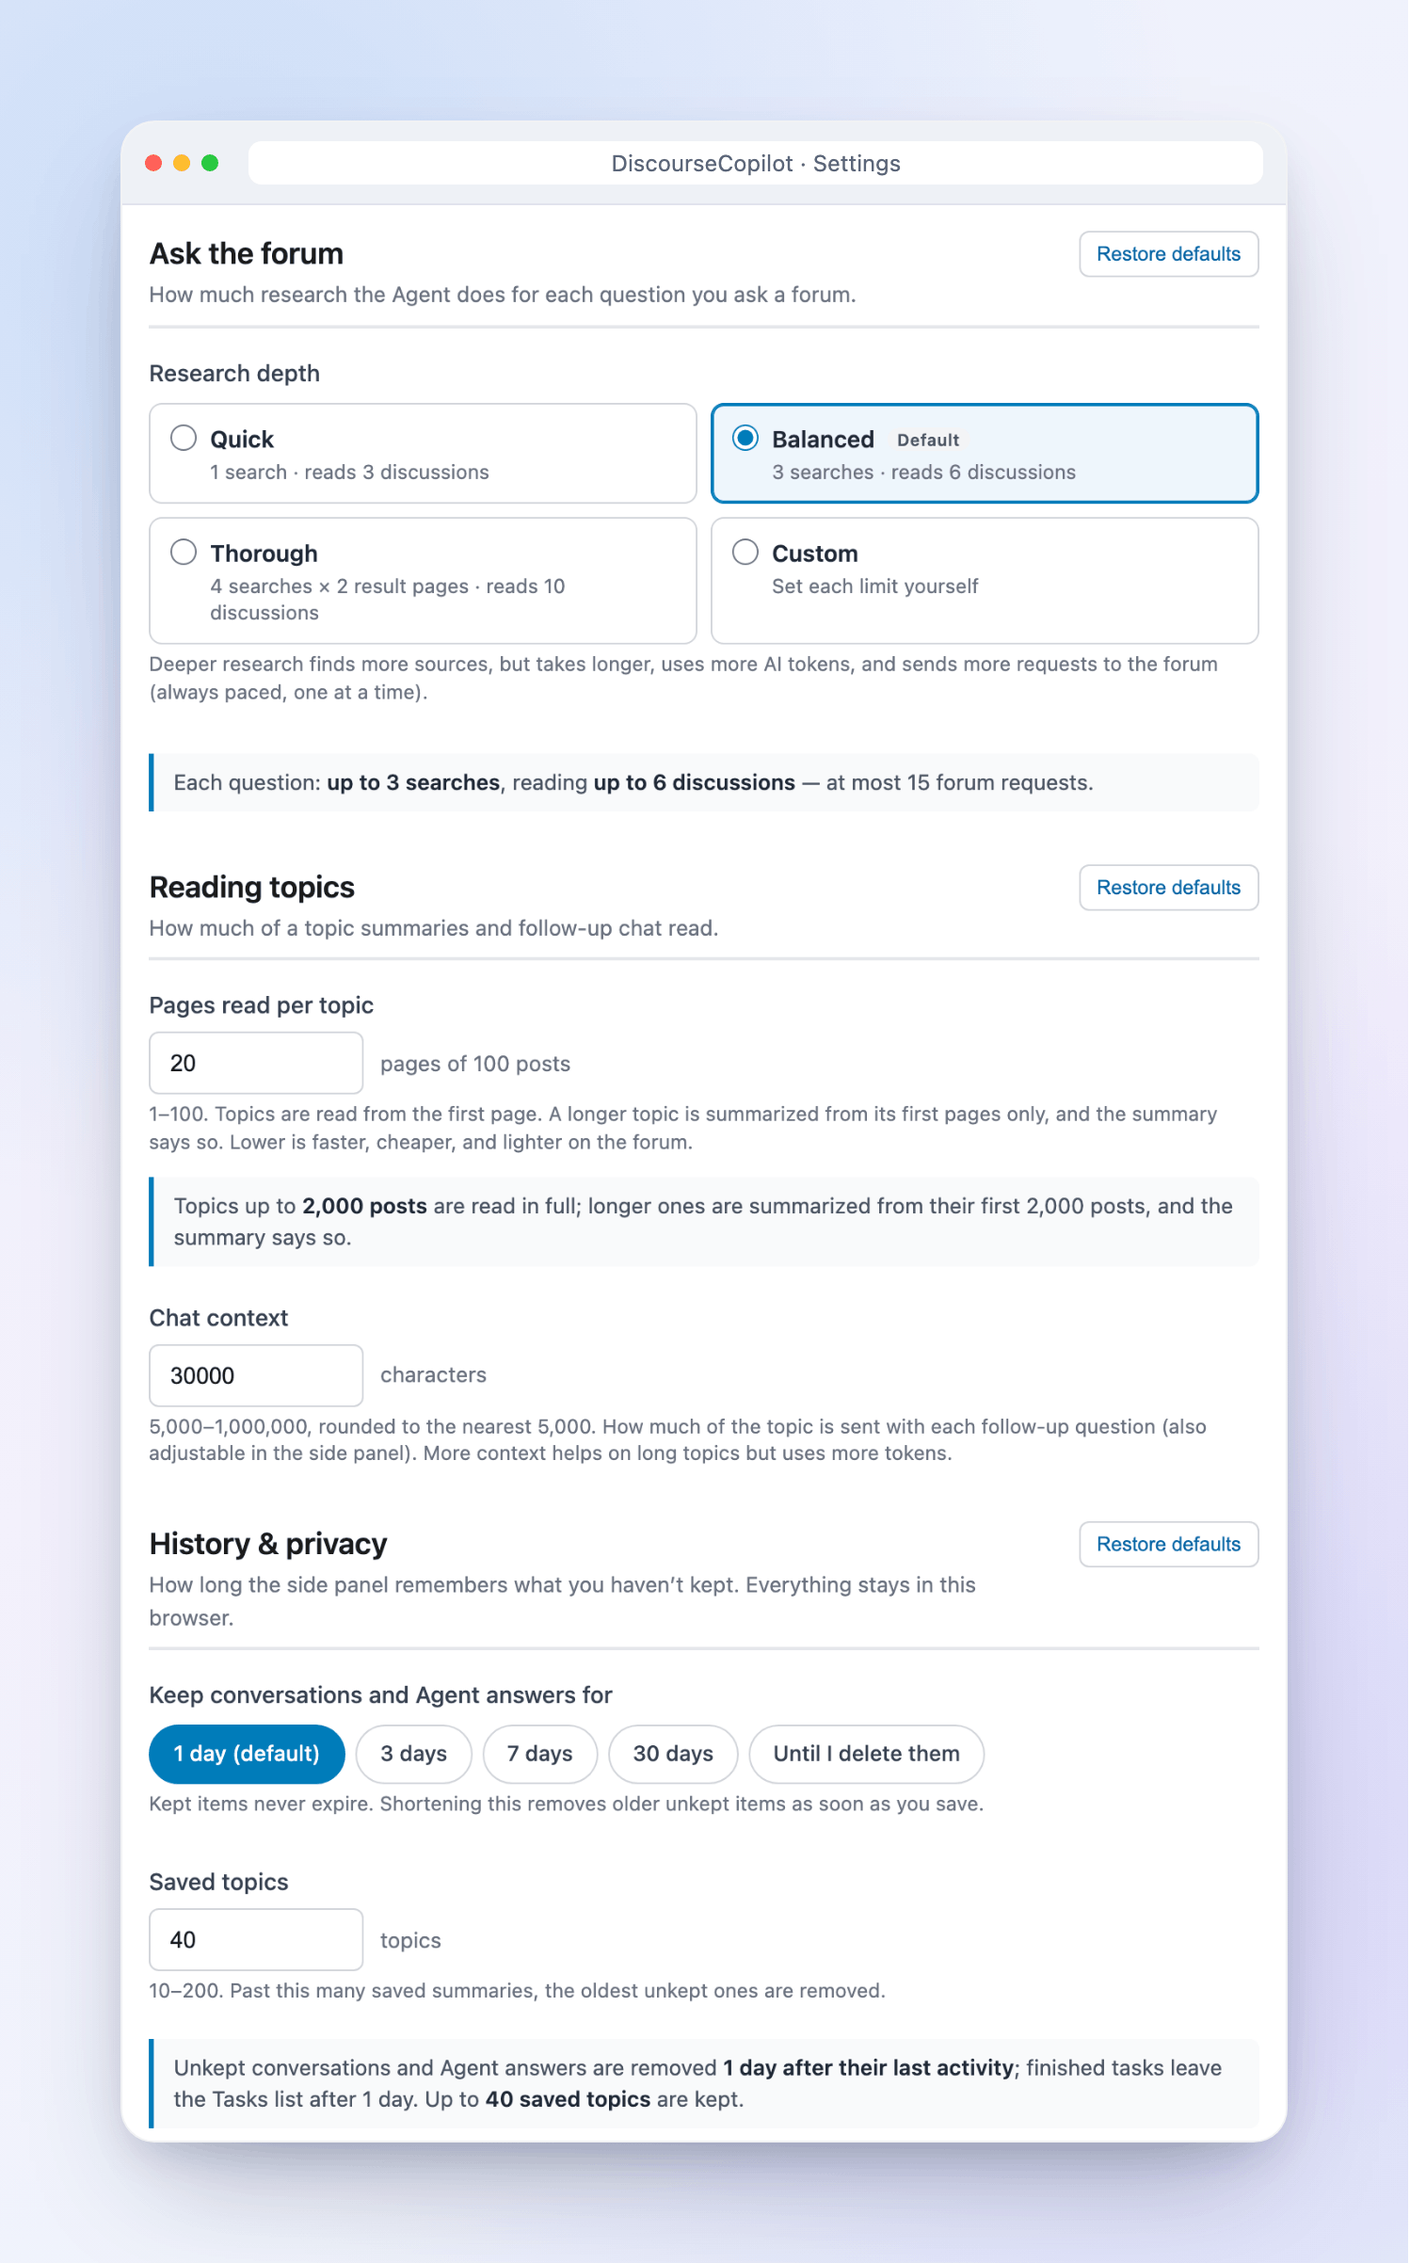
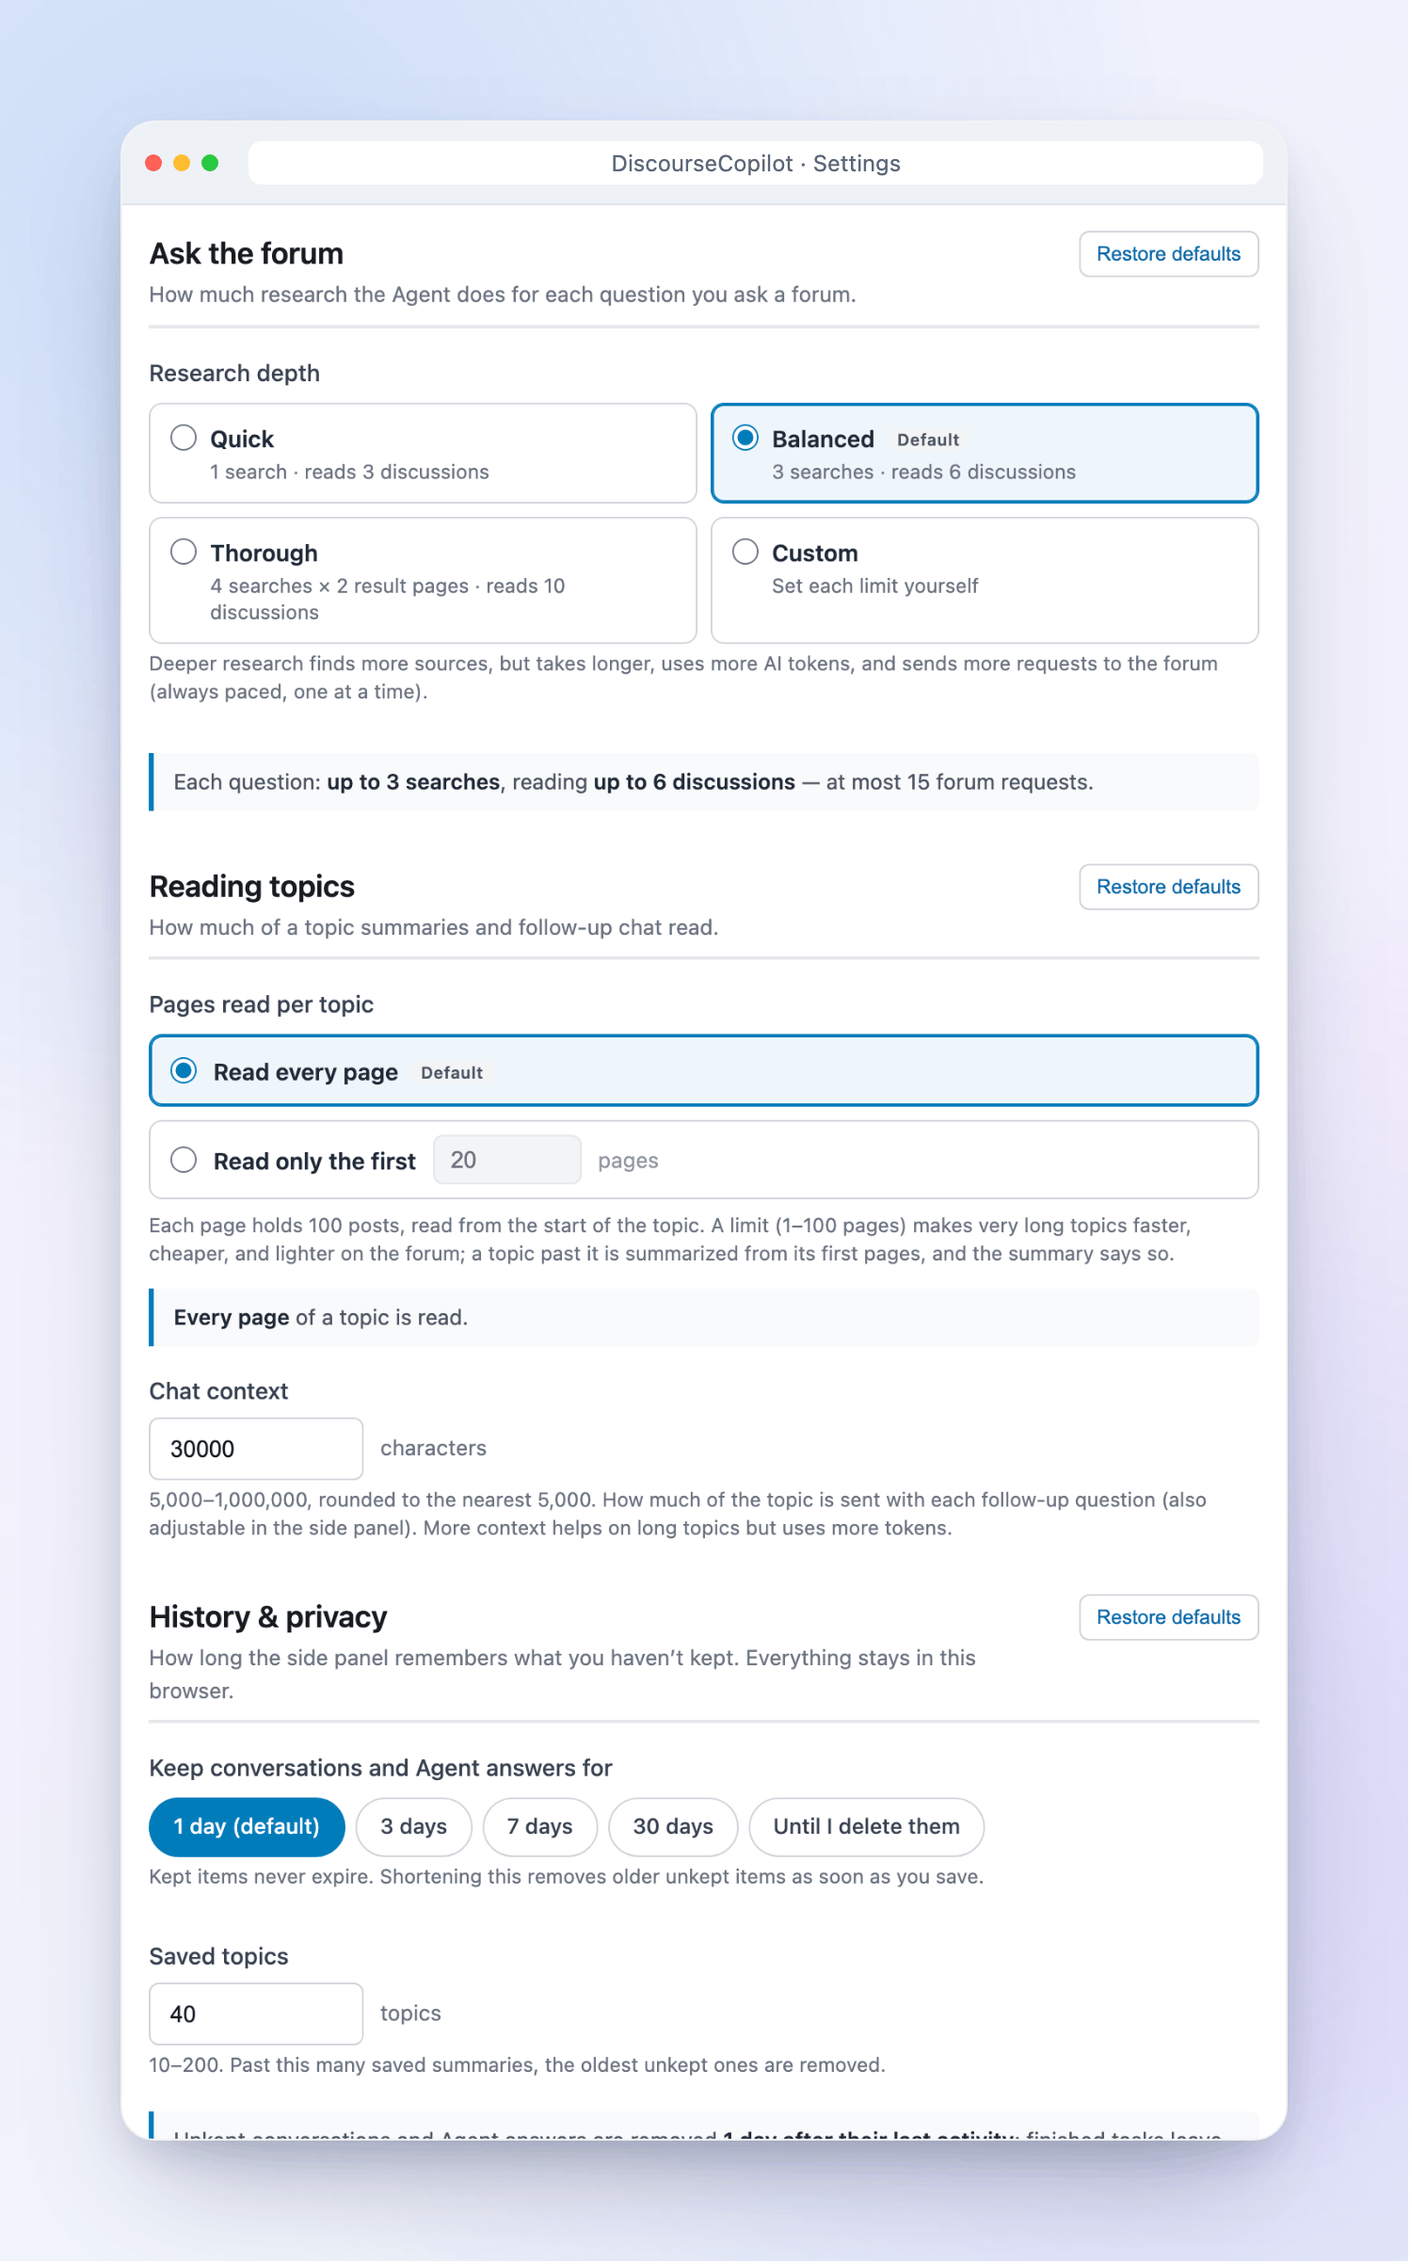
Read every page of a topic by default
Pages read per topic now defaults to every page; users can opt into a
limit of 1-100 pages. Topics whose length the forum doesn't report keep
the 100-page safety cap and still say when they were cut short.

Claude-Session: https://claude.ai/code/session_01E8j26XbZdJNx9SZggBmiGa

diff --git a/src/settings/settings.html b/src/settings/settings.html
@@ -819,6 +819,76 @@
       box-shadow: 0 0 0 3px var(--s-accent-ring);
     }
 
+    /* Pages read per topic: "every page" or "only the first N" */
+
+    .page-mode-options {
+      display: grid;
+      gap: 8px;
+      margin-bottom: 8px;
+    }
+
+    .page-mode-option {
+      display: flex;
+      flex-wrap: wrap;
+      align-items: center;
+      gap: 8px 10px;
+      min-height: 44px;
+      margin: 0;
+      padding: 8px 12px;
+      border: 1px solid var(--s-line-strong);
+      border-radius: 8px;
+      background: var(--s-surface);
+      font-weight: 400;
+      transition: border-color 0.15s, background-color 0.15s;
+    }
+
+    label.page-mode-option,
+    .page-mode-option > label {
+      cursor: pointer;
+    }
+
+    .page-mode-option > label {
+      margin: 0;
+    }
+
+    .page-mode-option:hover {
+      border-color: var(--s-accent);
+    }
+
+    .page-mode-option input[type="radio"] {
+      flex: 0 0 auto;
+      width: 16px;
+      height: 16px;
+      margin: 0;
+      accent-color: var(--s-accent);
+    }
+
+    .page-mode-option:has(input[type="radio"]:checked) {
+      border-color: var(--s-accent);
+      background: var(--s-selected-bg);
+      box-shadow: inset 0 0 0 1px var(--s-accent);
+    }
+
+    .page-mode-option:has(input[type="radio"]:focus-visible) {
+      box-shadow: inset 0 0 0 1px var(--s-accent), 0 0 0 3px var(--s-accent-ring);
+    }
+
+    .page-mode-option input[type="number"] {
+      width: 90px;
+      padding: 6px 10px;
+    }
+
+    .page-mode-option input[type="number"]:disabled {
+      border-color: var(--s-line);
+      background: var(--s-btn-soft);
+      color: var(--s-muted);
+      cursor: not-allowed;
+    }
+
+    .page-mode-option input[type="number"]:disabled + .unit {
+      opacity: 0.75;
+    }
+
     /* ---------- Numeric fields ---------- */
 
     .custom-fields {
@@ -1359,19 +1429,30 @@
           <button type="button" class="btn-restore" data-restore="reading" aria-label="Restore Reading topics defaults">Restore defaults</button>
         </div>
 
-        <div class="form-group">
-          <label for="topicPageLimit">Pages read per topic</label>
-          <div class="input-unit">
-            <input type="number" id="topicPageLimit" min="1" max="100" step="1" inputmode="numeric" aria-describedby="topicPageLimitHelp topicPageLimitEffective topicPageLimitError">
-            <span class="unit" aria-hidden="true">pages of 100 posts</span>
+        <fieldset class="choice-group" aria-describedby="topicPageHelp topicPageLimitEffective">
+          <legend>Pages read per topic</legend>
+          <div class="page-mode-options">
+            <label class="page-mode-option">
+              <input type="radio" name="topicPageMode" value="all" id="topicPageModeAll">
+              <span class="choice-title">Read every page <span class="choice-badge">Default</span></span>
+            </label>
+            <div class="page-mode-option page-mode-limit">
+              <input type="radio" name="topicPageMode" value="limit" id="topicPageModeLimit">
+              <label for="topicPageModeLimit" id="topicPageModeLimitLabel" class="choice-title">Read only the first</label>
+              <input type="number" id="topicPageLimit" min="1" max="100" step="1" inputmode="numeric"
+                aria-labelledby="topicPageModeLimitLabel topicPageLimitUnit"
+                aria-describedby="topicPageHelp topicPageLimitError">
+              <span id="topicPageLimitUnit" class="unit">pages</span>
+            </div>
           </div>
-          <small id="topicPageLimitHelp" class="help-text">
-            1–100. Topics are read from the first page. A longer topic is summarized from its first
-            pages only, and the summary says so. Lower is faster, cheaper, and lighter on the forum.
+          <small id="topicPageHelp" class="help-text">
+            Each page holds 100 posts, read from the start of the topic. A limit (1–100 pages) makes very long
+            topics faster, cheaper, and lighter on the forum; a topic past it is summarized from its first pages,
+            and the summary says so.
           </small>
           <small id="topicPageLimitError" class="field-error" hidden></small>
           <p id="topicPageLimitEffective" class="effective-value" aria-live="polite"></p>
-        </div>
+        </fieldset>
 
         <div class="form-group">
           <label for="forumContextLimit">Chat context</label>

diff --git a/src/settings/settings.js b/src/settings/settings.js
@@ -87,7 +87,7 @@ const RESTORE_SECTIONS = {
   },
   reading: {
     label: 'Reading topics',
-    keys: ['topicPageLimit'],
+    keys: ['topicPageMode', 'topicPageLimit'],
     fields: ['topicPageLimit', 'forumContextLimit'],
     forumContextLimit: true
   },
@@ -374,6 +374,9 @@ class DiscourseCopilotSettings {
     for (const field of CUSTOM_RESEARCH_FIELDS) {
       $(field).value = String(preferences.customResearch[field]);
     }
+    document.querySelectorAll('input[name="topicPageMode"]').forEach(input => {
+      input.checked = input.value === preferences.topicPageMode;
+    });
     $('topicPageLimit').value = String(preferences.topicPageLimit);
     $('maxSavedTopics').value = String(preferences.maxSavedTopics);
     $('forumContextLimit').value = String(this.draftForumContextLimit);
@@ -386,6 +389,16 @@ class DiscourseCopilotSettings {
         if (!input.checked) return;
         this.store.updatePreferences({ researchDepth: input.value });
         this.dispatch({ type: 'edited', clearStatus: true });
+        this.syncPreferenceErrors();
+        this.renderPreferences();
+      });
+    });
+    document.querySelectorAll('input[name="topicPageMode"]').forEach(input => {
+      input.addEventListener('change', () => {
+        if (!input.checked) return;
+        this.store.updatePreferences({ topicPageMode: input.value });
+        this.dispatch({ type: 'edited', clearStatus: true });
+        // Leaving limit mode clears a page-limit error (it is no longer checked).
         this.syncPreferenceErrors();
         this.renderPreferences();
       });
@@ -466,8 +479,12 @@ class DiscourseCopilotSettings {
       setRichText(research, `Each question: **up to ${plural(limits.searchQueries, 'search', 'searches')}${pages}**, reading **up to ${plural(limits.topicsRead, 'discussion')}** — at most ${plural(researchRequestBudget(limits), 'forum request')}.`);
     }
 
+    const limitMode = draft.topicPageMode === 'limit';
+    $('topicPageLimit').disabled = !limitMode;
     const reading = $('topicPageLimitEffective');
-    if (validation.fieldErrors.topicPageLimit) {
+    if (!limitMode) {
+      setRichText(reading, '**Every page** of a topic is read.');
+    } else if (validation.fieldErrors.topicPageLimit) {
       reading.textContent = '';
     } else {
       const posts = (Number(draft.topicPageLimit) * POSTS_PER_RAW_PAGE).toLocaleString('en-US');

diff --git a/DEVELOPMENT.md b/DEVELOPMENT.md
@@ -136,7 +136,7 @@ Draft edits (`selectProvider`, `updateField`, `updateDraft`, `updatePreferences`
 | Option | Default | Range / choices | Consumed by |
 | --- | --- | --- | --- |
 | `researchDepth` + `customResearch` | Balanced (3 searches, 1 result page, 6 discussions) | Quick / Balanced / Thorough / Custom (queries 1–4, result pages 1–3, discussions 1–12) | `agent-runner.mjs` via the task's snapshot |
-| `topicPageLimit` | 20 pages (2,000 posts) | 1–100 | `topic-fetcher.mjs` via the task's snapshot; summary coverage in the side panel |
+| `topicPageMode` + `topicPageLimit` | Every page (`'all'`); the limit, when chosen, starts at 20 pages (2,000 posts) | `'all'` / `'limit'` (limit 1–100, only validated in `'limit'` mode) | `topic-fetcher.mjs` via the task's snapshot (`resolveTopicPageLimit()` → pages, or `null` for every page); summary coverage in the side panel |
 | `historyRetention` | 1 day | 1d / 3d / 7d / 30d / forever | `TopicSessionDatabase.setRetention()` in the background (cleanup) and side panel (lazy expiry, Saved list, labels) |
 | `maxSavedTopics` | 40 | 10–200 | saved-topic pruning |
 
@@ -160,9 +160,9 @@ Hard caps stay in code: `FORUM_TOOL_LIMITS` (search pages ≤ 3, raw pages ≤ 2
 
 Consumers never read the raw fields; effective values always come from the `resolve*()` helpers.
 
-- **Snapshot rule.** When the background queues a task, `TaskService.enqueue()` reads the saved preferences and stores `snapshotTaskLimits(type, preferences)` on the task record (`task.limits`: `research` for Agent tasks, `topicPageLimit` for summary/chat). Executors only use `task.limits` (through `getTaskConfiguration()`), and the record is persisted, so queued and running tasks — including ones resumed after a worker restart — keep the values they started with. Tasks queued after a change use the new values.
+- **Snapshot rule.** When the background queues a task, `TaskService.enqueue()` reads the saved preferences and stores `snapshotTaskLimits(type, preferences)` on the task record (`task.limits`: `research` for Agent tasks, `topicPageLimit` for summary/chat, where `null` means every page). Records without `limits` (or without `topicPageLimit`) predate the snapshot and fall back to the current preferences. Executors only use `task.limits` (through `getTaskConfiguration()`), and the record is persisted, so queued and running tasks — including ones resumed after a worker restart — keep the values they started with. Tasks queued after a change use the new values.
 - **Retention.** The background holds a `ConfigStore` subscription; on every change it calls `TaskService.applyRetention(resolveRetention(prefs))`, which updates the database and re-runs chat/task/Agent cleanup and pruning (also done at startup, *after* reading the preferences). Agent answers expire `retention` after `retainedFrom` (completion, or the moment they were unkept), recomputed with the current setting, so shortening the period applies immediately. The side panel applies the same retention to its own database instance and re-renders the Saved list, the "expires in …" labels and the Keep button titles when the preferences change in any page.
-- **Truncation.** A topic longer than the page limit is read from its first pages; the fetch result carries `truncated`/`coveredPosts`, the task status says "(page limit; the topic has N)", and the session stores `summaryTruncated`/`summaryCoveredPosts`, shown as "first X of Y replies" plus a note on the summary. Replies added past the limit don't trigger a re-read or a new summary.
+- **Page limit and truncation.** Stored preferences from before `topicPageMode` existed read as `'all'` (a stored `topicPageLimit` was written on every save, so it says nothing about intent; it is kept as the value offered in limit mode). With every page, a topic of known size is read in full; a topic whose size is unknown (no pagination metadata) still stops at `MAX_UNKNOWN_TOPIC_PAGES` and reports it. A topic longer than the page limit is read from its first pages; the fetch result carries `truncated`/`coveredPosts`, the task status says "(page limit; the topic has N)", and the session stores `summaryTruncated`/`summaryCoveredPosts`, shown as "first X of Y replies" plus a note on the summary. Replies added past the limit don't trigger a re-read or a new summary.
 
 ### Settings form
 

diff --git a/README.md b/README.md
@@ -58,7 +58,7 @@ Open any topic on a Discourse forum and click **Create summary**. That's it.
     <td width="50%" valign="top">
       <img src="docs/screenshots/feature-summary-chat.png" alt="A topic summary followed by a short chat about the topic">
       <p><strong>Summaries and chat</strong><br>
-      See the original post, how people responded, and the key takeaways, even on huge topics (it tells you if it only read the first 2,000 posts). Then ask follow-up questions.</p>
+      See the original post, how people responded, and the key takeaways, even on huge topics (every page is read, unless you set a limit). Then ask follow-up questions.</p>
     </td>
     <td width="50%" valign="top">
       <img src="docs/screenshots/feature-agent-answer.png" alt="An answer from Ask the forum with numbered sources">
@@ -133,7 +133,7 @@ Open **Settings** from the side panel (or right-click the extension icon and cho
 - **Response language.** By default, answers match the language of the discussion (and questions are answered in the language you ask in). You can also pick one of 12 languages.
 - **Custom instructions.** Write your own instructions for how summaries should look, in place of the built-in ones. Leave it empty to use the defaults.
 - **How deep Ask the forum searches.** Choose **Quick**, **Balanced** (the default), **Thorough**, or set your own limits. Deeper searches find more sources but take longer and cost more.
-- **Pages read per topic.** Long topics are read from the start, up to 20 pages (2,000 posts) by default. A longer topic is summarized from those first posts, and the summary tells you so. You can raise or lower this.
+- **Pages read per topic.** By default, every page of a topic is read, however long it is. To make very long topics faster and cheaper, choose **Read only the first** and pick a number of pages (each page is 100 posts). A topic past your limit is summarized from its first pages, and the summary tells you so.
 - **Chat context.** How much of the topic is sent with each follow-up question. You can also change this in the side panel.
 - **History.** Chats and answers you haven't kept are removed after 1 day by default. You can choose 3, 7, or 30 days, or keep them until you delete them. Anything you **Keep** stays.
 - **Saved topics.** Up to 40 topic summaries are remembered by default (10 to 200). Past that, the oldest ones you haven't kept are removed.
@@ -159,7 +159,7 @@ There are two kinds. If the *forum* asks DiscourseCopilot to slow down, the side
 If the tab was already open before you installed the extension, reload the tab. Also make sure you're on a Discourse forum (most say "Powered by Discourse" at the bottom).
 
 **My summary says "Page limit reached" or "first 1,999 of 2,430 replies".**
-Very long topics are summarized from their first pages (2,000 posts by default). To include more, raise **Pages read per topic** in Settings, then click **Check for new replies**. It will take longer and cost a bit more.
+You've set a limit on **Pages read per topic**, so a longer topic is summarized from its first pages. To include more, choose **Read every page** (or a higher limit) in Settings, then click **Check for new replies**. It will take longer and cost a bit more. By default there is no limit. On the rare forum that doesn't report a topic's length, reading stops after 100 pages (10,000 posts) as a safety net.
 
 **What gets sent, and to whom?**
 Only the forum content needed for your request and your question, sent to the AI provider you set up. Nothing is sent to us. The forum itself only sees normal page requests from your browser, like when you browse it.
